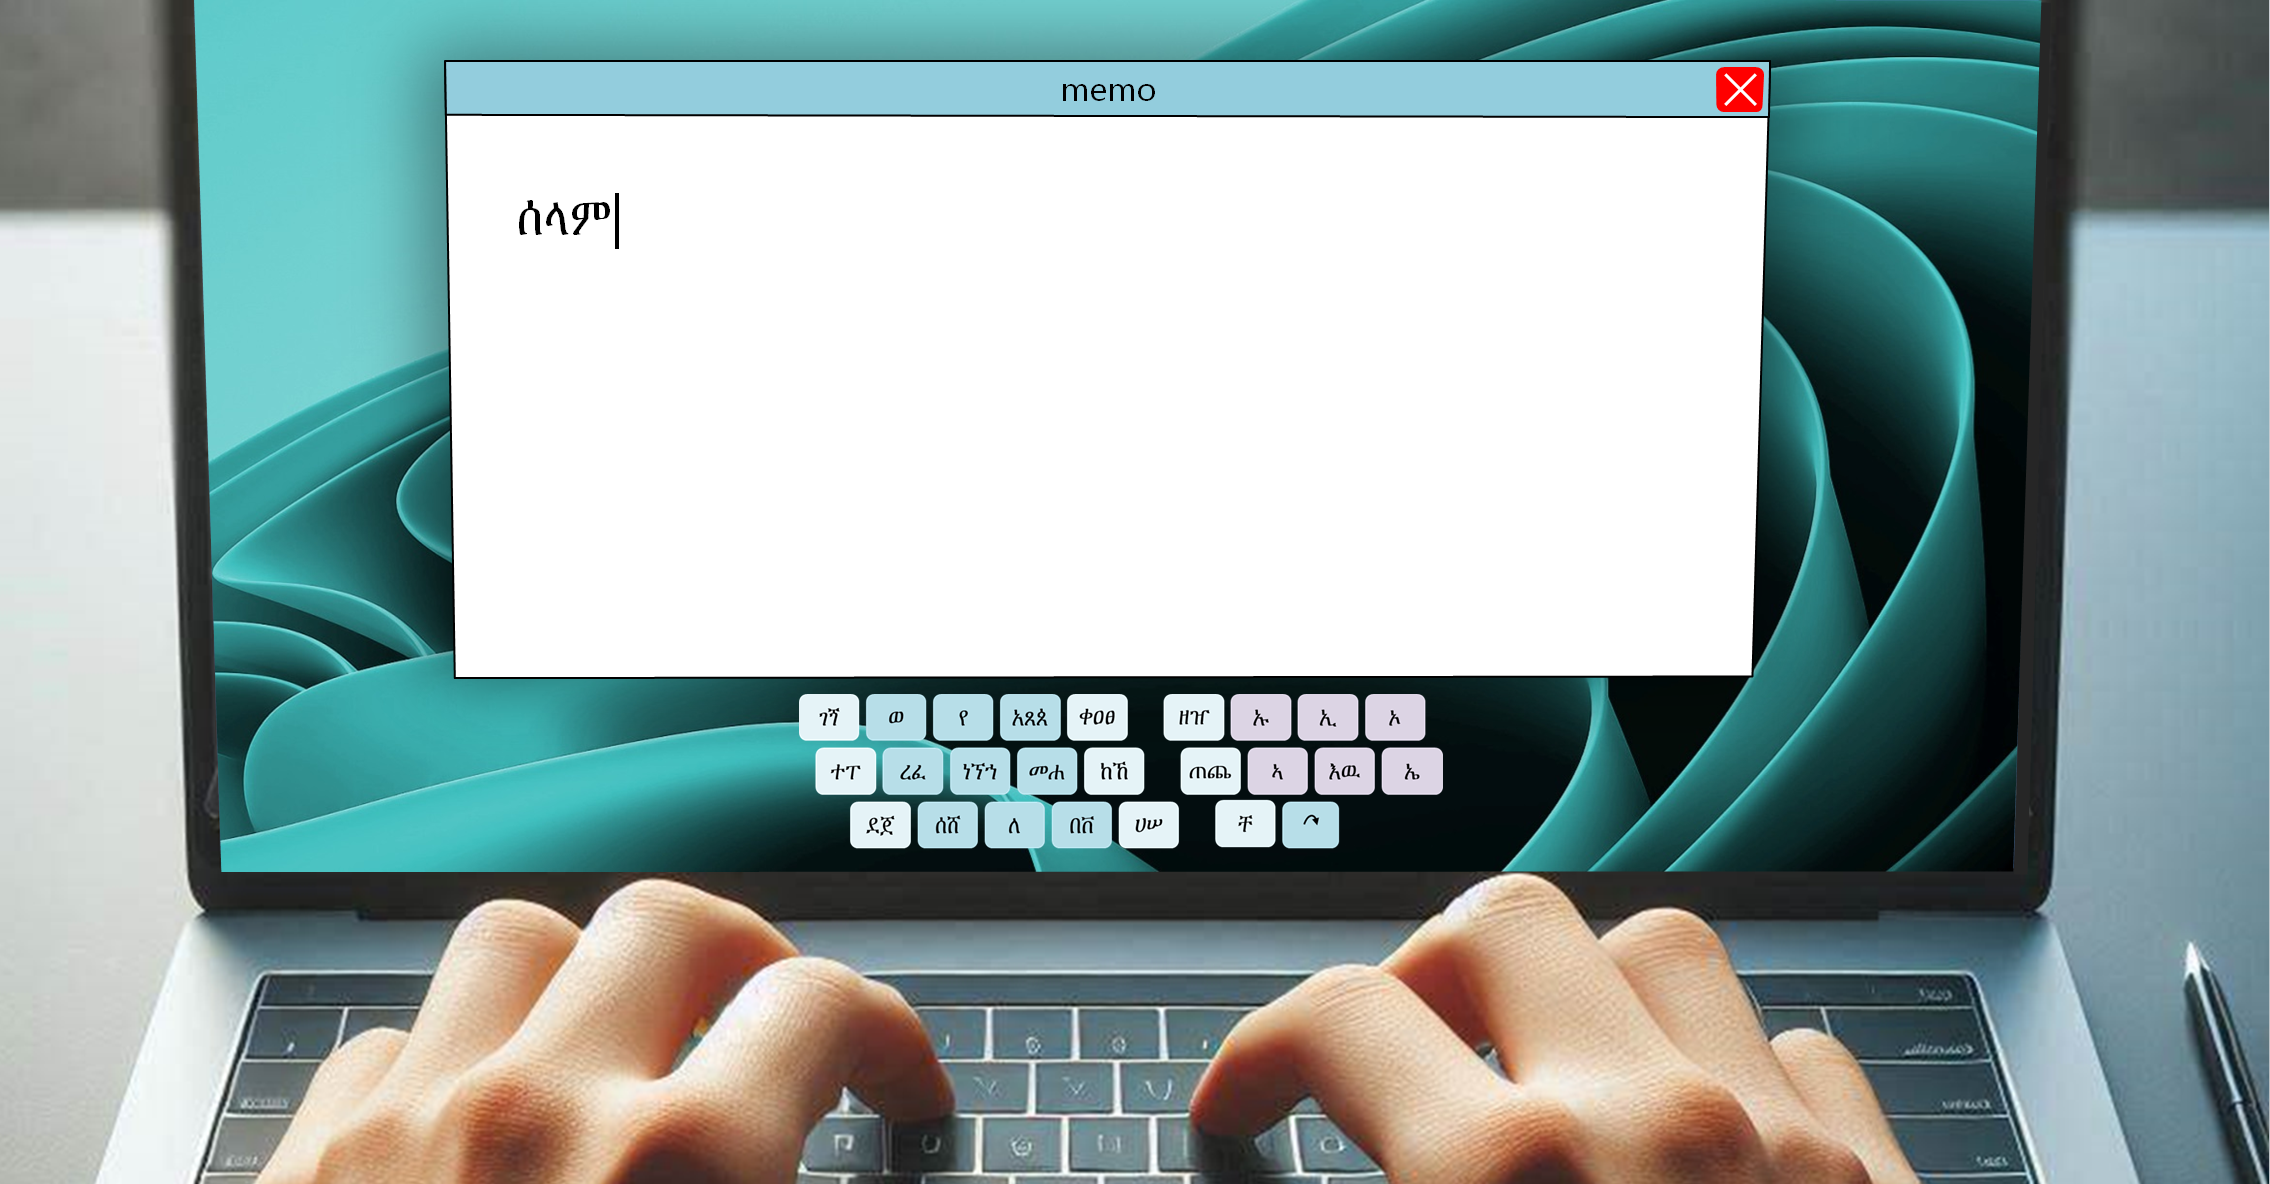
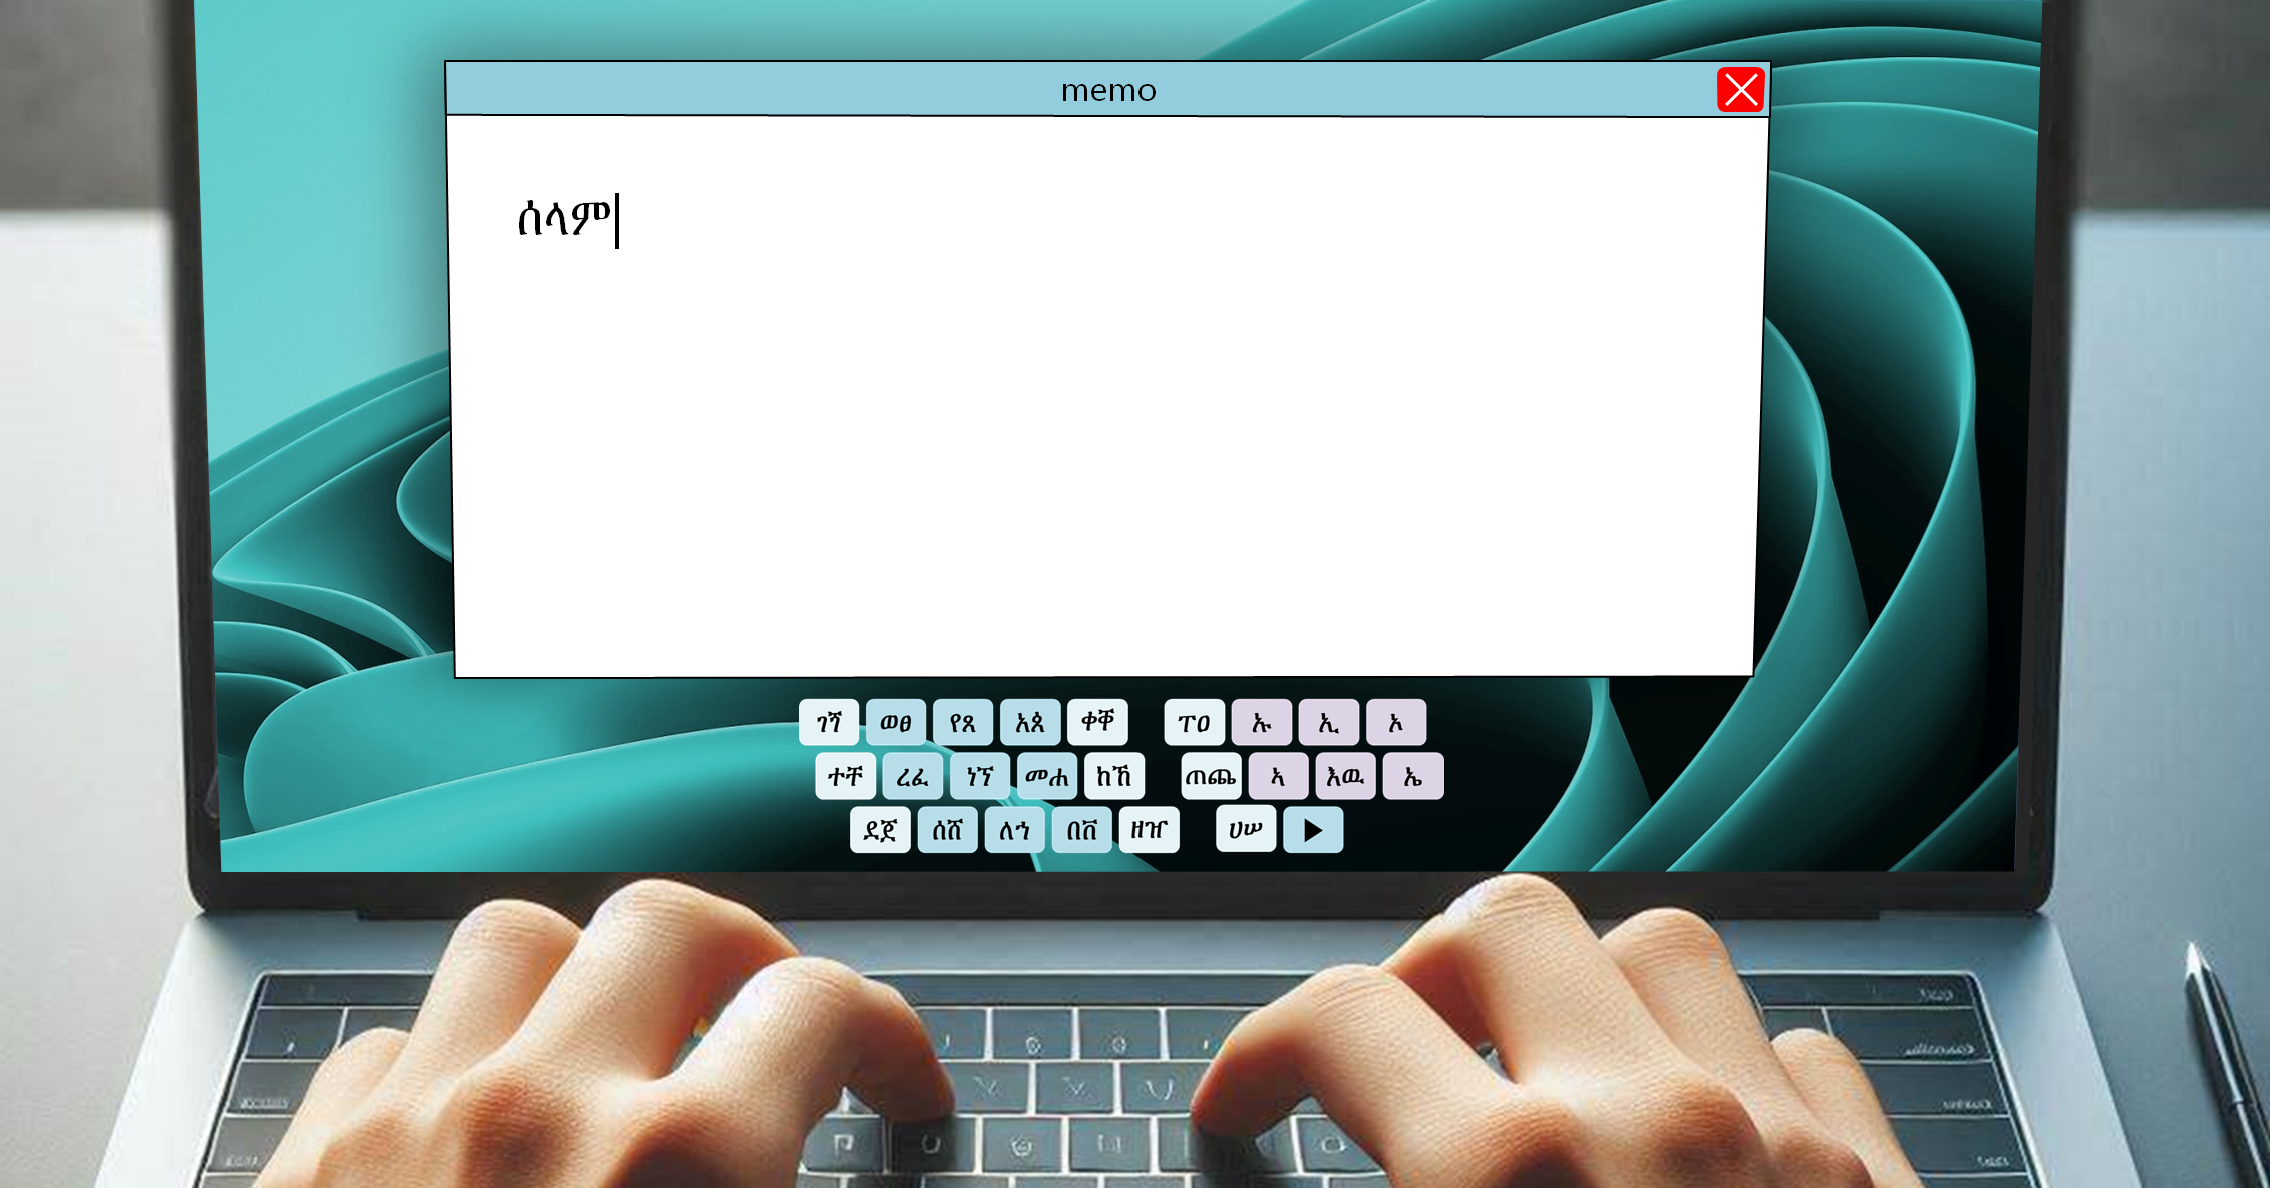
Add files via upload

diff --git a/teranama.html b/teranama.html
@@ -209,9 +209,9 @@ const wBaseSet = new Set([...wSeriesBaseMap.values()]);
 
 // Base groups for 'next' cycling
 const layout = {
-  Q: ["ገ", "ጘ"], W: ["ወ"], E: ["የ"], R: ["አ","ጸ","ጰ"], T: ["ቀ","ዐ","ፀ","ቐ"], Y: ["ዘ","ዠ"],
-  A: ["ተ","ፐ"], S: ["ረ","ፈ"], D: ["ነ","ኘ","ኀ"], F: ["መ","ሐ"], G: ["ከ","ኸ"], H: ["ጠ","ጨ"],
-  Z: ["ደ","ጀ"], X: ["ሰ","ሸ"], C: ["ለ"], V: ["በ","ቨ"], B: ["ሀ","ሠ"], N: ["ቸ"],
+  Q: ["ገ", "ጘ"], W: ["ወ","ፀ"], E: ["የ","ጸ"], R: ["አ","ጰ"], T: ["ቀ","ቐ"], Y: ["ፐ","ዐ"],
+  A: ["ተ","ቸ"], S: ["ረ","ፈ"], D: ["ነ","ኘ"], F: ["መ","ሐ"], G: ["ከ","ኸ"], H: ["ጠ","ጨ"],
+  Z: ["ደ","ጀ"], X: ["ሰ","ሸ"], C: ["ለ","ኀ"], V: ["በ","ቨ"], B: ["ዘ","ዠ"], N: ["ሀ","ሠ"],
   M: ["next"]
 };
 const baseToGroup = new Map();
@@ -231,9 +231,9 @@ const space   = () => insert(" ");
 
 // Base insert mapping
 const keyToBaseInsert = {
-  Q:"ገ", W:"ወ", E:"የ", R:"አ", T:"ቀ", Y:"ዘ",
+  Q:"ገ", W:"ወ", E:"የ", R:"አ", T:"ቀ", Y:"ፐ",
   A:"ተ", S:"ረ", D:"ነ", F:"መ", G:"ከ", H:"ጠ",
-  Z:"ደ", X:"ሰ", C:"ለ", V:"በ", B:"ሀ", N:"ቸ"
+  Z:"ደ", X:"ሰ", C:"ለ", V:"በ", B:"ዘ", N:"ሀ"
 };
 
 // Vowel apply
